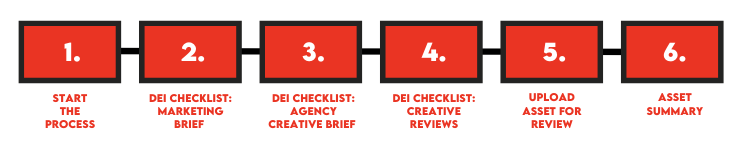
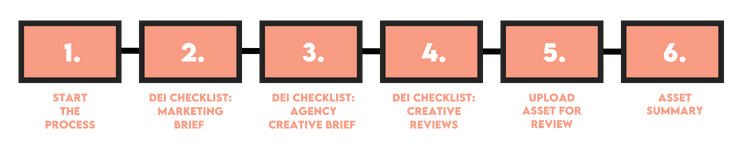
approval for final color changes

diff --git a/rep_score_portal/app.py b/rep_score_portal/app.py
@@ -29,112 +29,116 @@ from views.submit_an_asset import (
 st.set_page_config(page_title='Rep Score Portal', page_icon='🌀')
 
 
-hide_streamlit_style = f"""
+hide_streamlit_style = """
     <style>
-        #MainMenu {{visibility: hidden;}}
-        footer {{
+        #MainMenu {
             visibility: hidden;
-        }}
-        [title='View fullscreen'] {{
+        }
+        footer {
             visibility: hidden;
-        }}
+        }
+        [title='View fullscreen'] {
+            visibility: hidden;
+        }
 
-        h1 > div > a > svg {{
+        h1 > div > a > svg {
             display: none;
-        }}
-        h2 > div > a > svg {{
+        }
+        h2 > div > a > svg {
             display: none;
-        }}
-        h3 > div > a > svg {{
+        }
+        h3 > div > a > svg {
             display: none;
-        }}
-        h4 > div > a > svg {{
+        }
+        h4 > div > a > svg {
             display: none;
-        }}
-        h5 > div > a > svg {{
+        }
+        h5 > div > a > svg {
             display: none;
-        }}
-        h6 > div > a > svg {{
+        }
+        h6 > div > a > svg {
             display: none;
-        }}
+        }
 
-        .stRadio > label {{
+        .stRadio > label {
             font-size: 16px;
-        }}
+        }
 
-        p {{
+        p {
             margin-bottom: 0.75rem;
-        }}
+        }
 
-        @font-face{{
+        @font-face{
             font-family:"LEMON MILK";
             src:url("https://trp-other.s3.amazonaws.com/fonts/LEMONMILK-Medium.otf") format("woff"),
             url("https://trp-other.s3.amazonaws.com/fonts/LEMONMILK-Medium.otf") format("opentype"),
             url("https://trp-other.s3.amazonaws.com/fonts/LEMONMILK-Medium.otf") format("truetype");
-        }}
+        }
 
-        h1,h2,h3,h4,h5,h6 {{
+        h1,h2,h3,h4,h5,h6 {
             font-family: 'LEMON MILK', sans-serif;
-        }}
+        }
 
-        .stProgress > div > div > div {{
-            background-color: gray;
+        .stProgress > div > div > div {
+            background-color: #F89C84;
             height: 1.5rem;
             margin-top: -0.5rem;
-        }}
+        }
 
-        .stProgress > div > div > div > div {{
-            background-color: green;
-        }}
+        .stProgress > div > div > div > div {
+            background-color: #F89C84;
+        }
 
-        div[role="progressbar"] > div > div {{
-            background-color: gray;
-        }}
+        div[role="progressbar"] > div > div {
+            background-color: #FFD4B4;
+        }
 
-        div[role="progressbar"] > div > div > div {{
-            background-color: green;
-        }}
+        div[role="progressbar"] > div > div > div {
+            background-color: #F89C84;
+        }
 
-        .streamlit-expanderHeader {{
+        .streamlit-expanderHeader {
             font-size: 16px;
-            color: {st.get_option('theme.secondaryBackgroundColor')};
+            color: #683474;
             font-weight: bold;
             margin-bottom: 5px;
-        }}
+        }
 
-        .streamlit-expanderContent > div {{
+        .streamlit-expanderContent > div {
             line-height: 1.3rem;
-        }}
+        }
 
-        .stTextArea > div > div {{
+        .stTextArea > div > div {
             background-color: #C8C8C8;
-        }}
+        }
 
-        div.stButton > button:first-child {{
-            background-color: #2A2526;
+        div.stButton > button:first-child {
+            background-color: #683474;
+            border-color: #000000;
             color: #FAF4EB;
-        }}
-        div.stButton > button:focus:not(:active) {{
-            background-color: #2A2526;
+        }
+        div.stButton > button:focus:not(:active) {
+            background-color: #683474;
+            border-color: #000000;
             color: #FAF4EB;
-        }}
+        }
 
-        div.stButton > button:first-child > div > p {{
+        div.stButton > button:first-child > div > p {
             font-size: 20px;
             margin-bottom: 1rem;
-        }}
+        }
 
-        .stTextInput > div > span {{
+        .stTextInput > div > span {
             display: none;
-        }}
+        }
 
-        .stMultiSelect > div > div > div > div > span > span {{
+        .stMultiSelect > div > div > div > div > span > span {
             max-width: 250px;
-        }}
+        }
 
-        div[data-baseweb="calendar"] > div > div > div > div {{
+        div[data-baseweb="calendar"] > div > div > div > div {
             color: #333333;
-        }}
+        }
     </style>
 """
 

diff --git a/rep_score_portal/views/submit_an_asset.py b/rep_score_portal/views/submit_an_asset.py
@@ -466,10 +466,10 @@ def page_five() -> None:
     st.image('./static/Stage 5.png', use_column_width=True)
 
     # set up CSS for the asset upload input boxes
-    asset_upload_filename_label = '... or enter a URL to the :green[ASSET]'
+    asset_upload_filename_label = '... or enter a URL to the :orange[ASSET]'
 
     change_upload_fields_colors(
-        css_color='#14C896',
+        css_color='#FFBD59',
         filename_label=asset_upload_filename_label,
     )
 
@@ -490,14 +490,14 @@ def page_five() -> None:
     st.write('-----')
 
     st.write(
-        '**Please either upload your :green[ASSET] below or provide a URL to view your '
-        ':green[ASSET]**'
+        '**Please either upload your :orange[ASSET] below or provide a URL to view your '
+        ':orange[ASSET]**'
     )
 
     insert_line_break()
 
     uploaded_file = st.file_uploader(
-        label='Select an :green[ASSET] file to upload...',
+        label='Select an :orange[ASSET] file to upload...',
         type=None,
         accept_multiple_files=False,
     )
@@ -505,8 +505,8 @@ def page_five() -> None:
     asset_url = st.text_input(
         label=asset_upload_filename_label,
         help=(
-            'Rather than uploading an :green[ASSET], you can submit a URL to an already-uploaded '
-            ':green[ASSET] that our coders can reference instead'
+            'Rather than uploading an :orange[ASSET], you can submit a URL to an already-uploaded '
+            ':orange[ASSET] that our coders can reference instead'
         ),
         placeholder='https://...',
     )
@@ -543,7 +543,7 @@ def page_five() -> None:
     ):
         if st.button('Upload!'):
             if uploaded_file and asset_url:
-                st.error('Please either upload an :green[ASSET] _or_ provide a URL - not both.')
+                st.error('Please either upload an :orange[ASSET] _or_ provide a URL - not both.')
                 st.stop()
 
             st.session_state.asset_information['content_type'] = asset_content_type
@@ -551,7 +551,7 @@ def page_five() -> None:
             st.session_state.asset_information['notes'] = notes
 
             if uploaded_file:
-                with st.spinner(text='Uploading :green[ASSET]...'):
+                with st.spinner(text='Uploading :orange[ASSET]...'):
                     asset_filename = upload_file_to_s3(
                         uploaded_file=uploaded_file,
                         s3_key='uploads',
@@ -562,7 +562,7 @@ def page_five() -> None:
                 asset_filename = asset_url
                 file_uploaded_to_s3 = False
 
-            with st.spinner(text='Setting up :green[ASSET] tracking...'):
+            with st.spinner(text='Setting up :orange[ASSET] tracking...'):
                 append_new_row_in_asset_tracker(
                     asset_name=st.session_state.asset_information['name'],
                     username=st.session_state['username'],

diff --git a/rep_score_portal/views/explore_your_data.py b/rep_score_portal/views/explore_your_data.py
@@ -399,14 +399,14 @@ def _construct_plot(
     full_plot = (
         (chart + text)
         .configure_axis(
-            labelFontSize=15,
+            labelFontSize=14,
             labelFontWeight=alt.FontWeight('bold'),
             titleFontSize=12,
             titleFontWeight=alt.FontWeight('normal'),
         )
         .configure_axisY(
             labelFontSize=12,
-            labelLimit=199,
+            labelLimit=180,
         )
     )
 

diff --git a/rep_score_portal/footer.py b/rep_score_portal/footer.py
@@ -44,6 +44,6 @@ def display_footer() -> None:
     layout(
         img(
             src='https://trp-other.s3.amazonaws.com/images/BBDO_and_Rep_Logos.png',
-            style=styles(height=px(20)),
+            style=styles(height=px(37)),
         )
     )

diff --git a/CHANGELOG.md b/CHANGELOG.md
@@ -2,9 +2,12 @@ All notable changes to this project will be documented in this file.
 
 The format is based on [Keep a Changelog](http://keepachangelog.com/en/1.0.0/) and this project uses [Semantic Versioning](http://semver.org/).
 
-# [0.14.5] - 2022-02-XX
+# [0.14.5] - 2022-03-29
 ### Changed
- - ``secondaryBackgroundColor`` value set in ``.streamlit/config.toml``. Additionally, this is no longer hard-coded anywhere else in the codebase, now dynamically pulling the color code from this single source
+ - Color scheme used across the entire Streamlit app
+ - Upgraded Streamlit to version ``1.20.0``
+### Fixed
+ - Inadvertently hidden axis labels in the "Scores by Identity, Ad Level" plot on the "Explore Your Data" page
 
 # [0.14.4] - 2022-02-13
 ### Added
